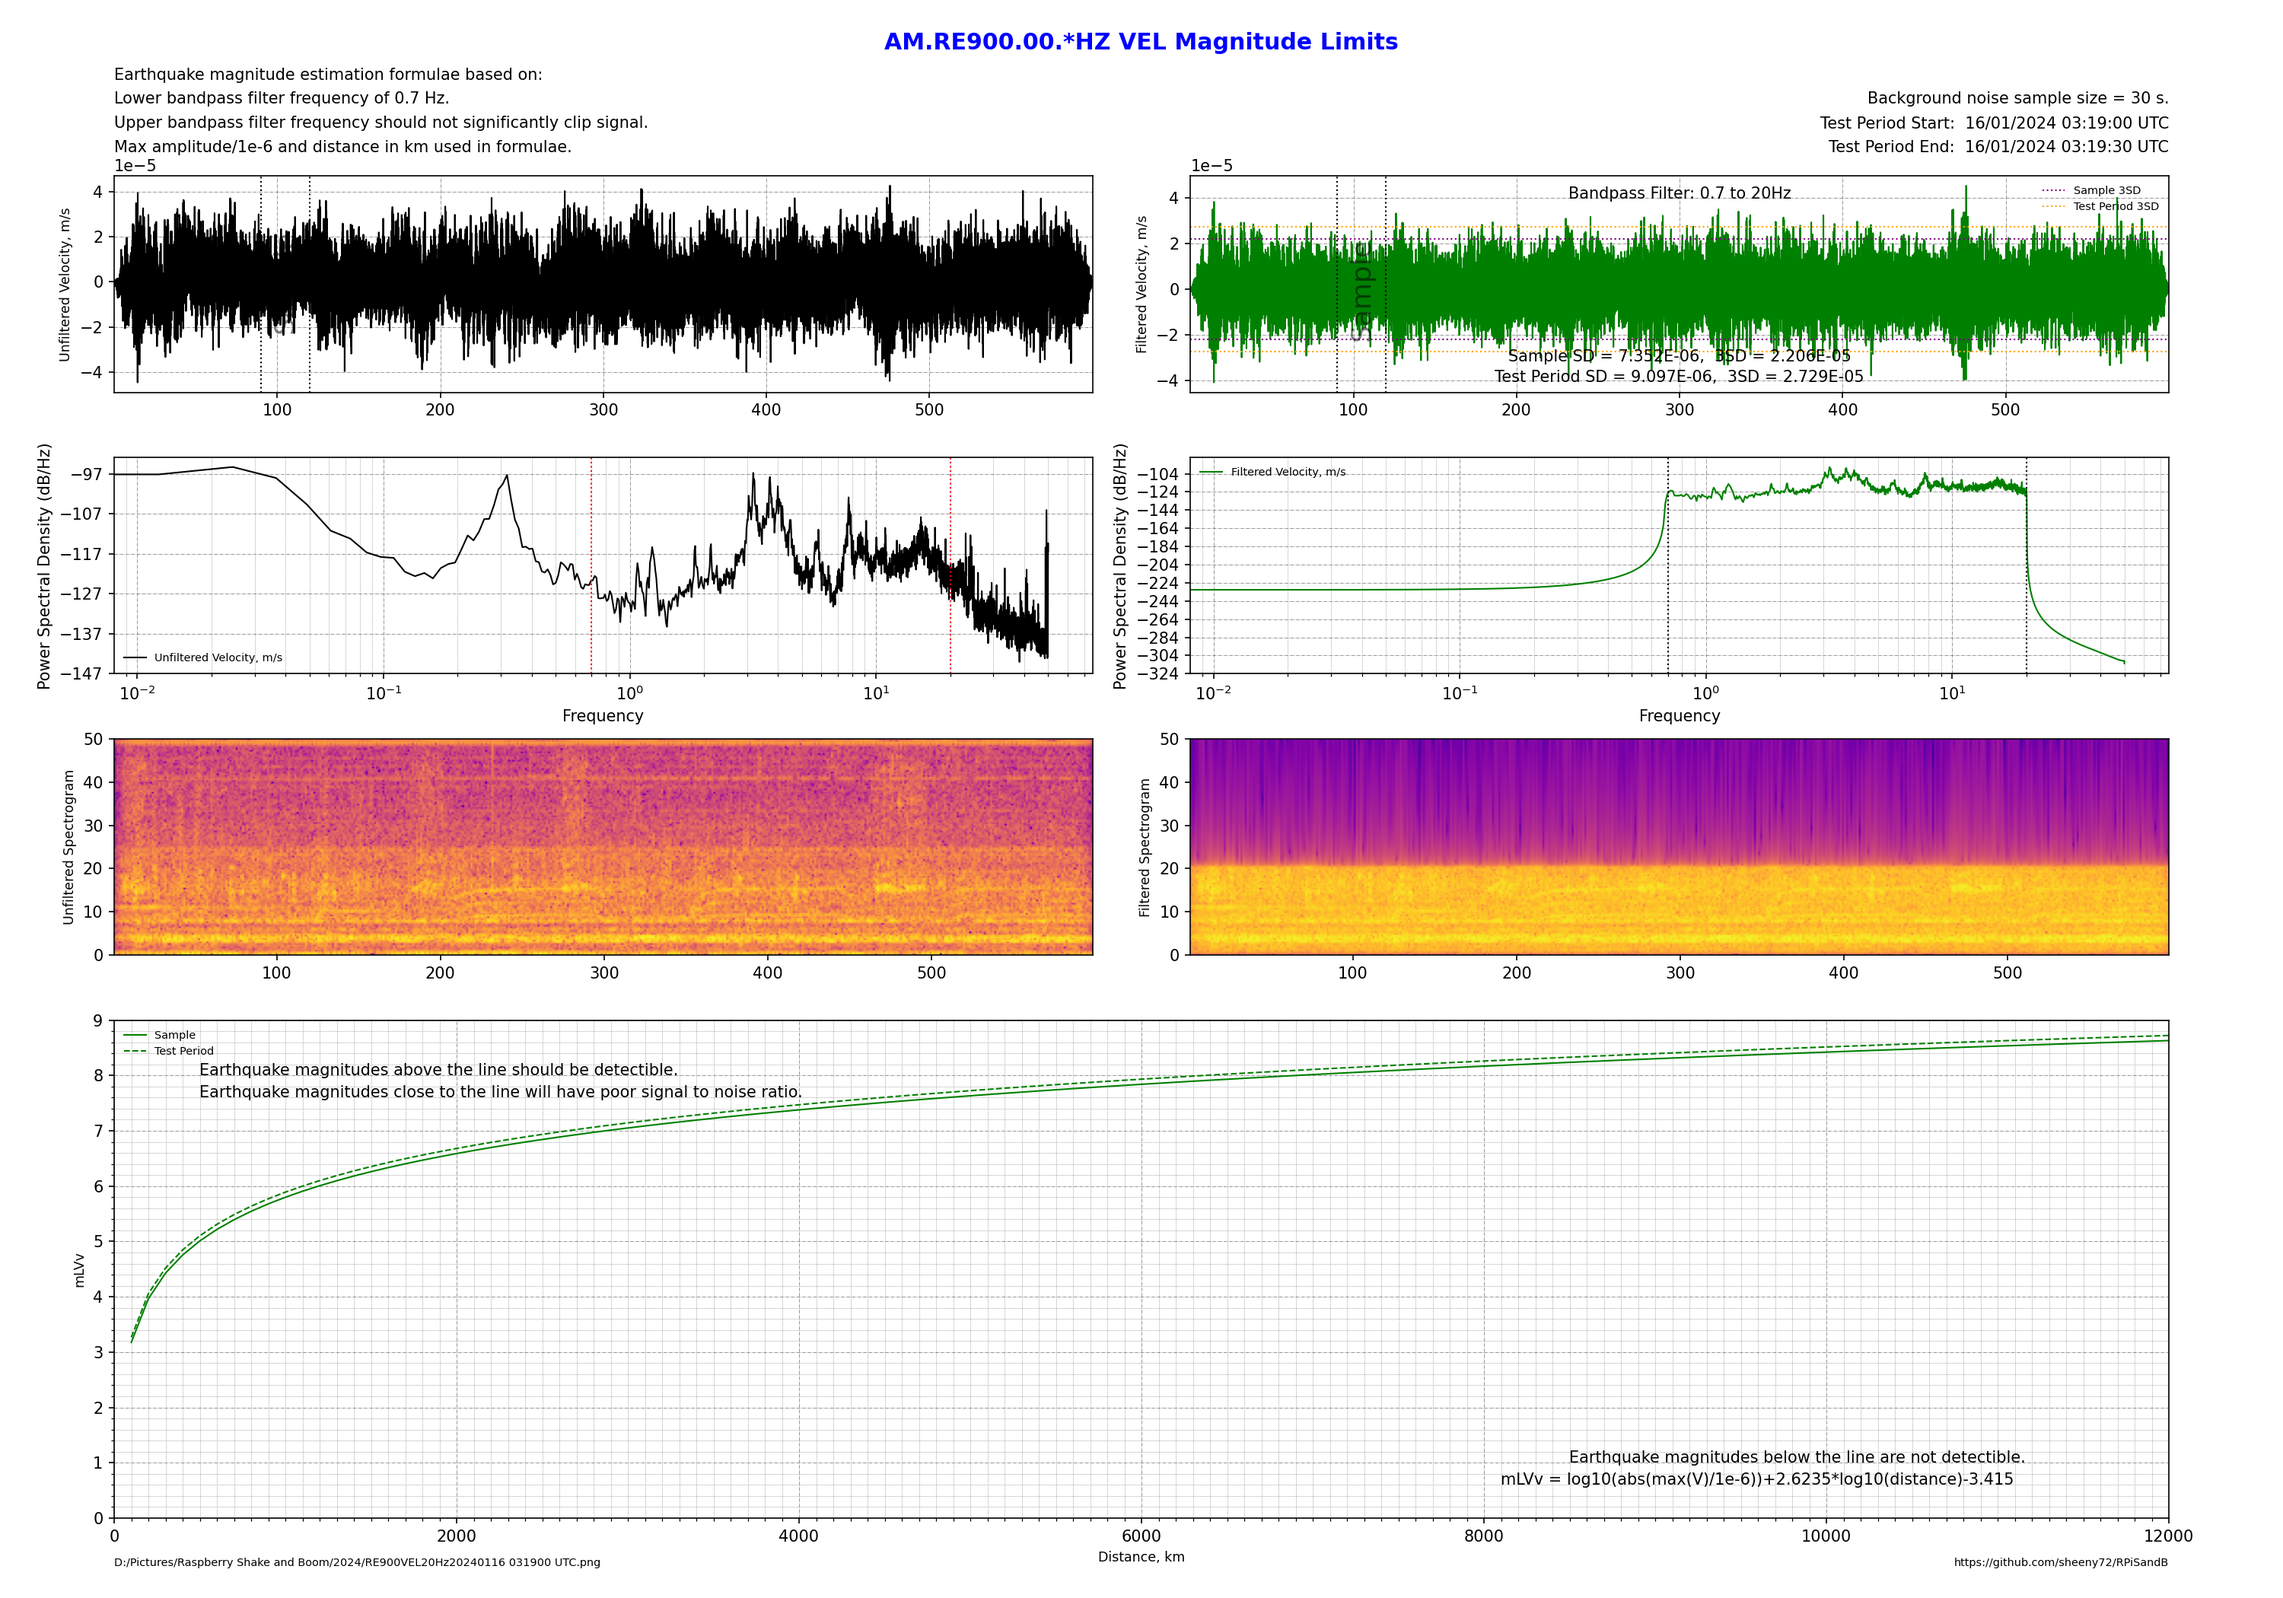
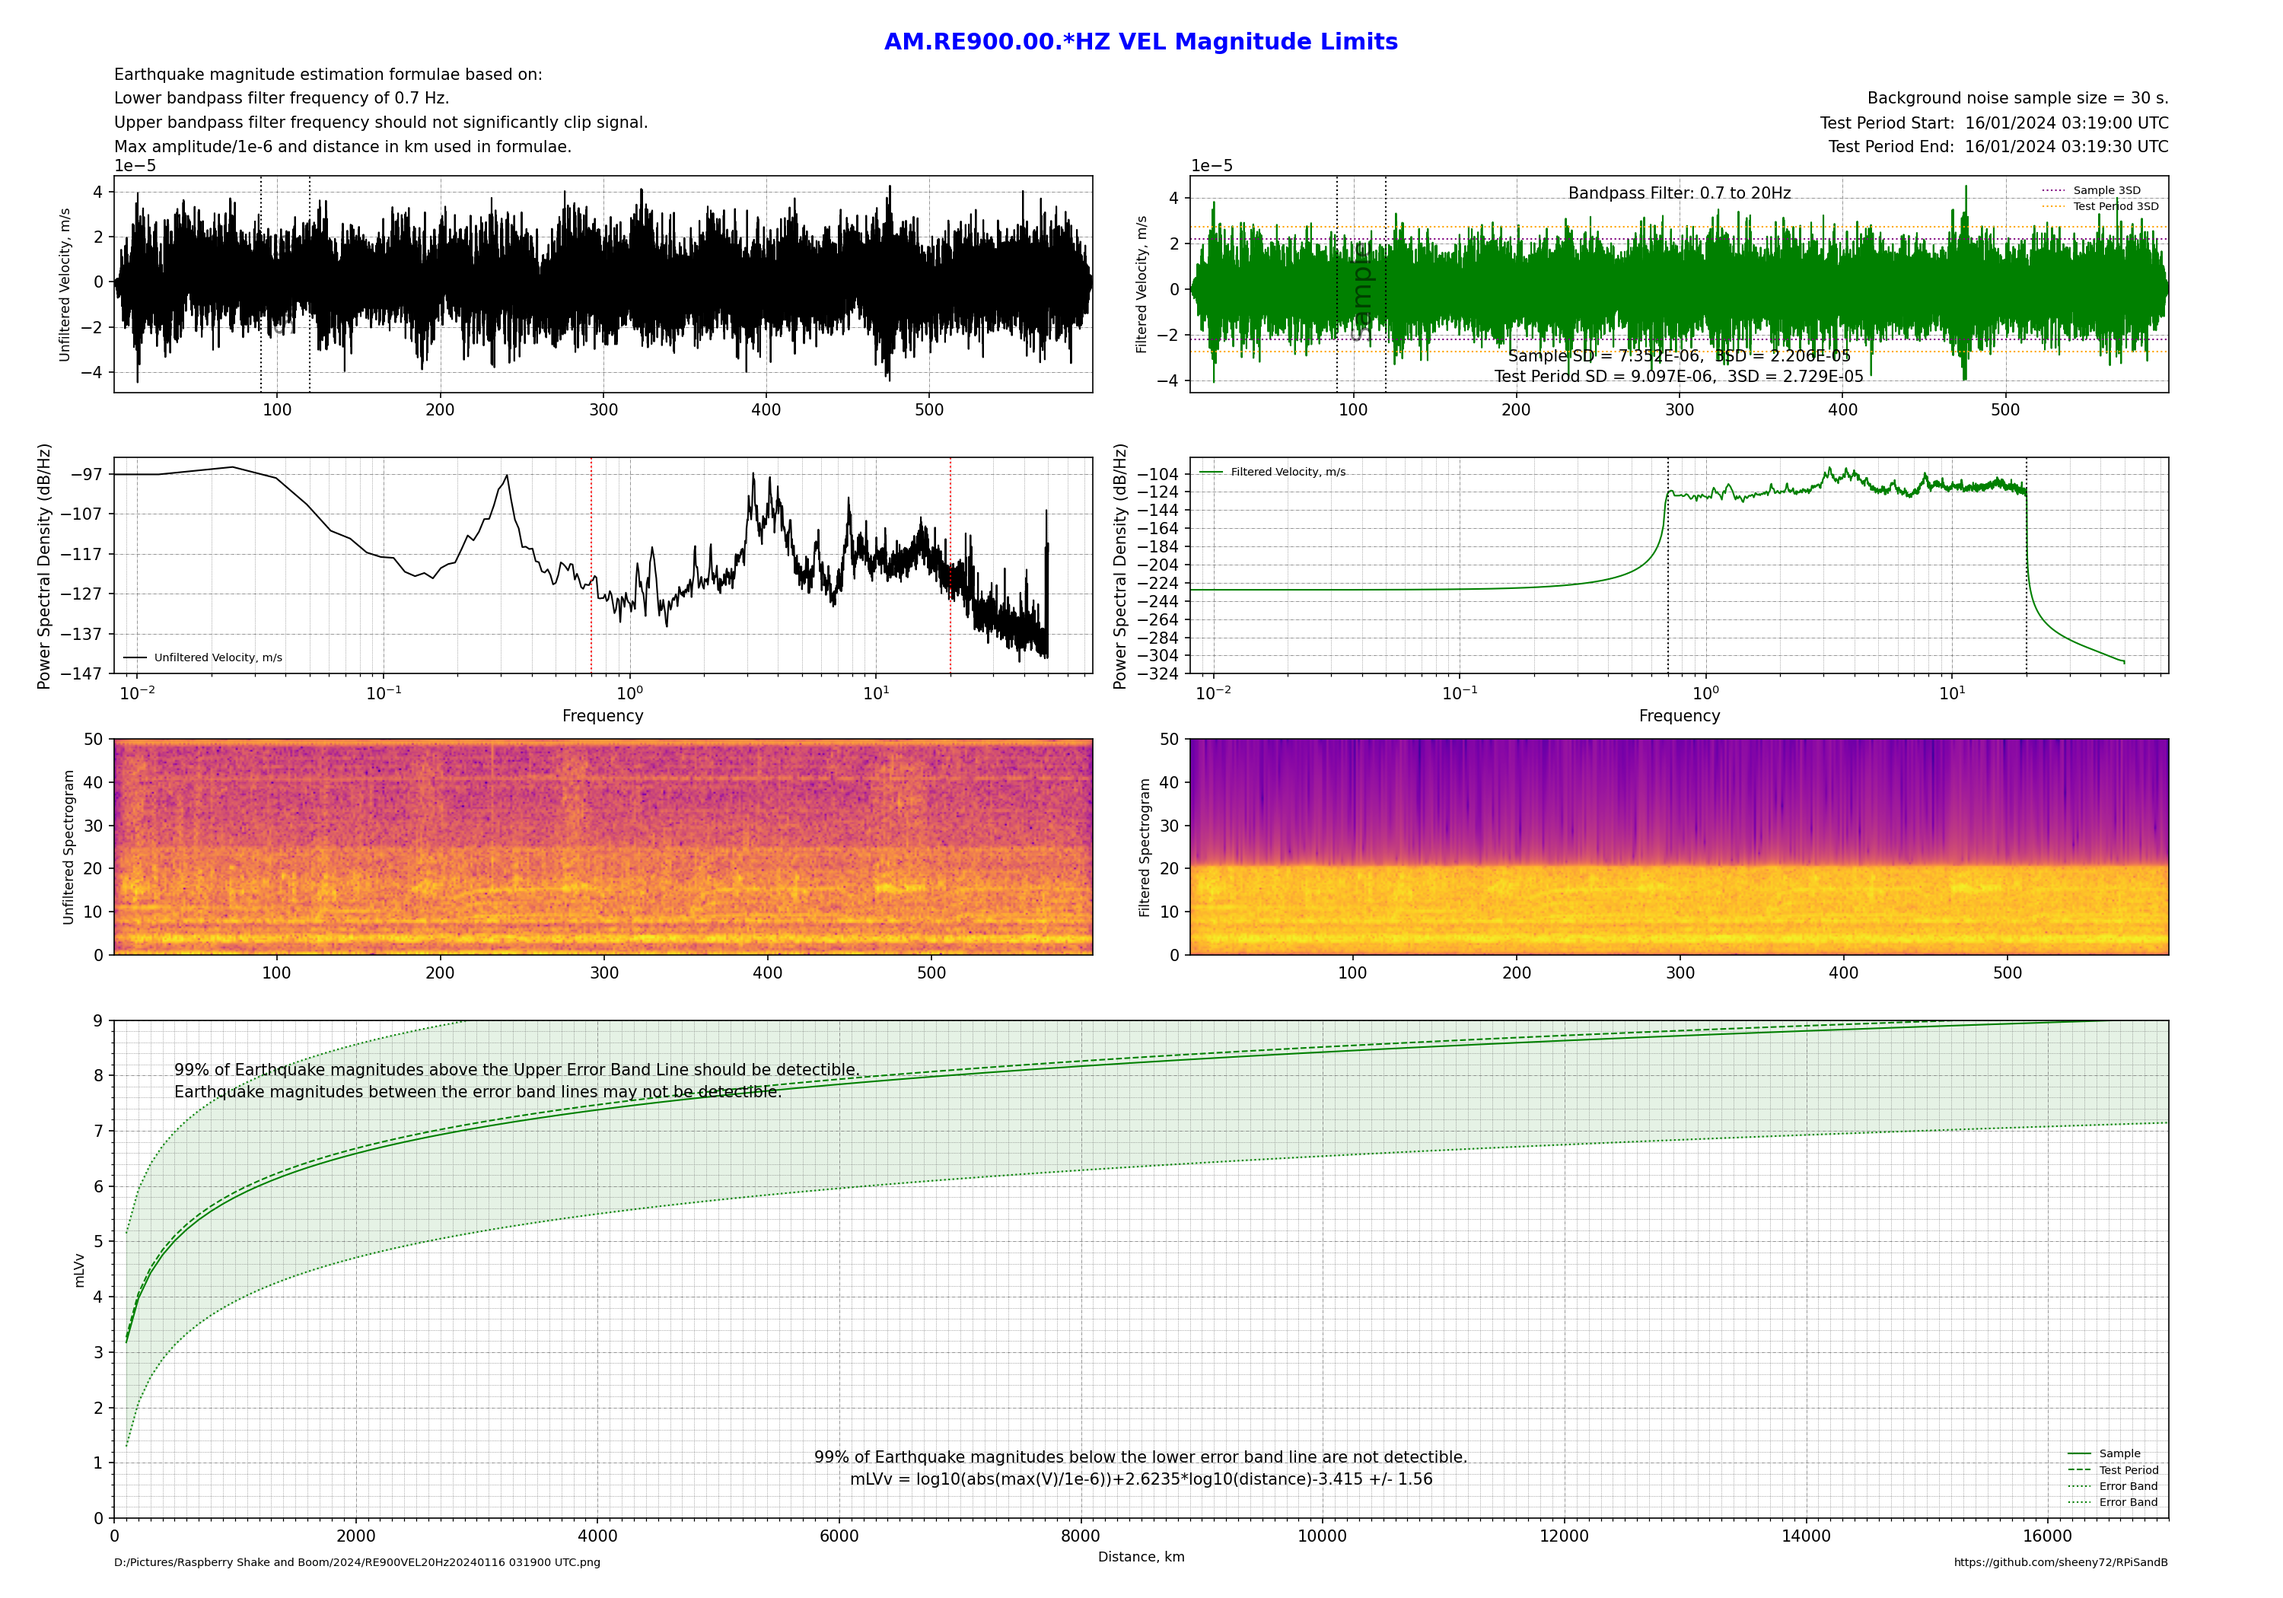
Add files via upload

Changed region(s): [[0.031, 0.619, 0.961, 0.8976], [0.341, 0.8976, 0.961, 0.9595]]

diff --git a/MagLimit.py b/MagLimit.py
@@ -55,7 +55,7 @@ filt = [0.69, 0.7, 2, 2.1]       #distant quake
 #filt = [0.69, 0.7, 6, 6.1]
 #filt = [0.69, 0.7, 8, 8.1]
 #filt = [0.69, 0.7, 10, 10.1]
-filt = [0.69, 0.7, 20, 20.1]
+#filt = [0.69, 0.7, 20, 20.1]
 #filt = [0.69, 0.7, 49, 50]
 
 #get waveform for background noise and copy it for independent removal of instrument response
@@ -83,35 +83,43 @@ for j in range (0, bns):                #find the sample interval with the minim
 
 mv = [] 
 mLv = []
+errh = []
+errl = []
 dist = []
 
-for d in range (0,120):
+for d in range (0,170):
     dist.append((d+1)*100)
     if oput == 'DISP':
         mLv.append(np.log10(abs(bnfstd*3/1e-6))+2.234*np.log10(dist[d])-1.199)   #calculate estimate magnitude
         mv.append(np.log10(abs(bnxstd*3/1e-6))+2.234*np.log10(dist[d])-1.199)   #calculate estimate magnitude
+        errl.append(mLv[d]-1.4)
+        errh.append(mv[d]+1.4)
     elif oput == 'ACC':
         mLv.append(np.log10(abs(bnfstd*3/1e-6))+3.146*np.log10(dist[d])-6.154)   #calculate estimate magnitude
         mv.append(np.log10(abs(bnxstd*3/1e-6))+3.146*np.log10(dist[d])-6.154)   #calculate estimate magnitude
+        errl.append(mLv[d]-1.56)
+        errh.append(mv[d]+1.56)
     else:
         mLv.append(np.log10(abs(bnfstd*3/1e-6))+2.6235*np.log10(dist[d])-3.415)   #calculate estimate magnitude
         mv.append(np.log10(abs(bnxstd*3/1e-6))+2.6235*np.log10(dist[d])-3.415)   #calculate estimate magnitude
+        errl.append(mLv[d]-1.88)
+        errh.append(mv[d]+1.88)
 
 if oput == 'DISP':
     colour = 'b'
     ml = 'mLDv'
     heading = 'Displacement, m'
-    eq = 'mLDv = log10(abs(max(D)/1e-6))+2.234*log10(distance)-1.199'
+    eq = 'mLDv = log10(abs(max(D)/1e-6))+2.234*log10(distance)-1.199 +/- 1.4'
 elif oput =='ACC':
     colour = 'r'
     ml = 'mLAv'
     heading = 'Acceleration, m/s²'
-    eq = 'mLAv = log10(abs(max(A)/1e-6))+3.146*log10(distance)-6.154'
+    eq = 'mLAv = log10(abs(max(A)/1e-6))+3.146*log10(distance)-6.154 +/- 1.88'
 else:
     colour = 'g'
     ml = 'mLVv'
     heading = 'Velocity, m/s'
-    eq = 'mLVv = log10(abs(max(V)/1e-6))+2.6235*log10(distance)-3.415'
+    eq = 'mLVv = log10(abs(max(V)/1e-6))+2.6235*log10(distance)-3.415 +/- 1.56'
         
 fig = plt.figure(figsize=(20, 14), dpi=150)       # set to page size in inches
 ax1 = fig.add_subplot(5,2,1)            # raw waveform
@@ -168,20 +176,23 @@ ax6.set_ylabel("Filtered Spectrogram",size='small')
 
 ax7.plot(dist, mLv, lw=1, color=colour, label = 'Sample')
 ax7.plot(dist, mv, lw=1, color=colour, linestyle = '--', label = 'Test Period')
+ax7.plot(dist, errl, lw=1, color=colour, linestyle = ':', label = 'Error Band')
+ax7.plot(dist, errh, lw=1, color=colour, linestyle = ':', label = 'Error Band')
+ax7.fill_between(dist, errl, errh, color=colour, alpha=0.1)
 ax7.set_ylabel(ml,size='small')
 ax7.set_xlabel("Distance, km",size='small')
 ax7.margins(x=0)
 ax7.margins(y=0)
 ax7.set_ylim(0, 9)
-ax7.set_xlim(0, 12000)
+ax7.set_xlim(0, 17000)
 ax7.xaxis.set_minor_locator(AutoMinorLocator(20))
 ax7.yaxis.set_minor_locator(AutoMinorLocator(5))
 grid(ax7)
-ax7.legend(frameon=False, fontsize='x-small')
-ax7.text(500,8, 'Earthquake magnitudes above the line should be detectible.')
-ax7.text(500,7.6, 'Earthquake magnitudes close to the line will have poor signal to noise ratio.')
-ax7.text(8500,1, 'Earthquake magnitudes below the line are not detectible.')
-ax7.text(8100,0.6, eq)
+ax7.legend(frameon=False, fontsize='x-small', loc = 'lower right')
+ax7.text(500,8, '99% of Earthquake magnitudes above the Upper Error Band Line should be detectible.')
+ax7.text(500,7.6, 'Earthquake magnitudes between the error band lines may not be detectible.')
+ax7.text(8500,1, '99% of Earthquake magnitudes below the lower error band line are not detectible.', ha = 'center')
+ax7.text(8500,0.6, eq, ha = 'center')
 
 fig.text(0.05, 0.95, 'Earthquake magnitude estimation formulae based on:') 
 fig.text(0.05, 0.935, 'Lower bandpass filter frequency of 0.7 Hz.')
